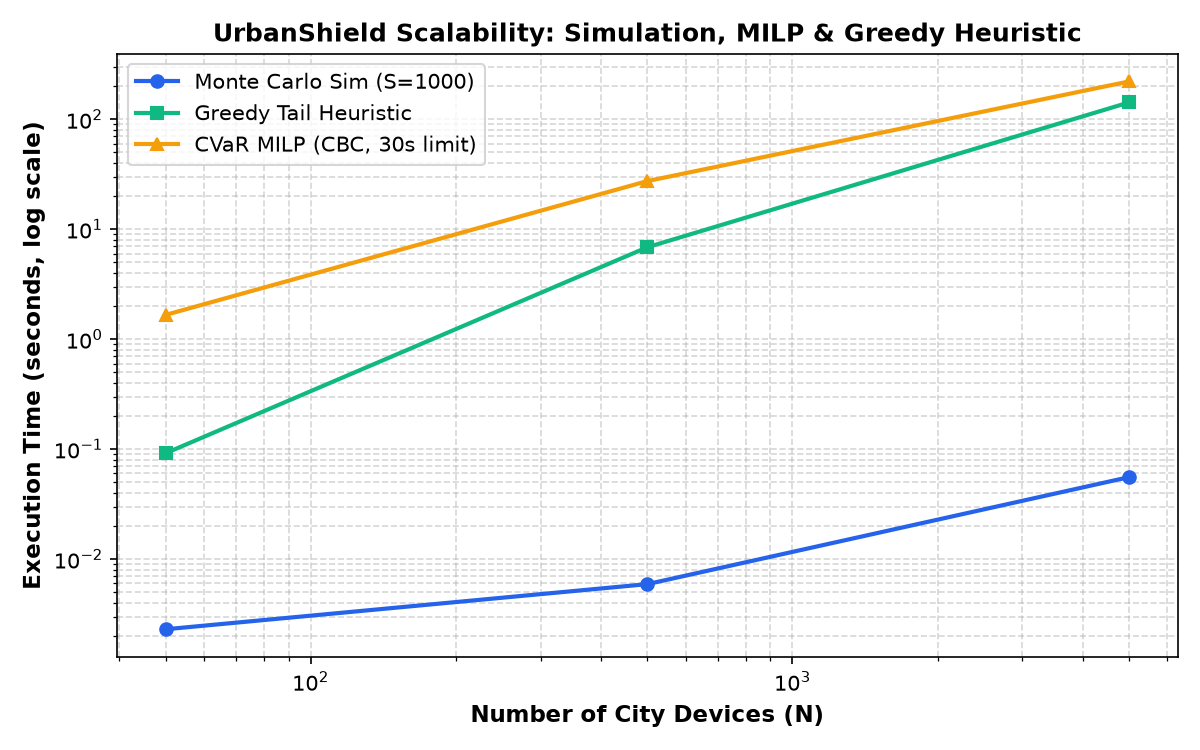
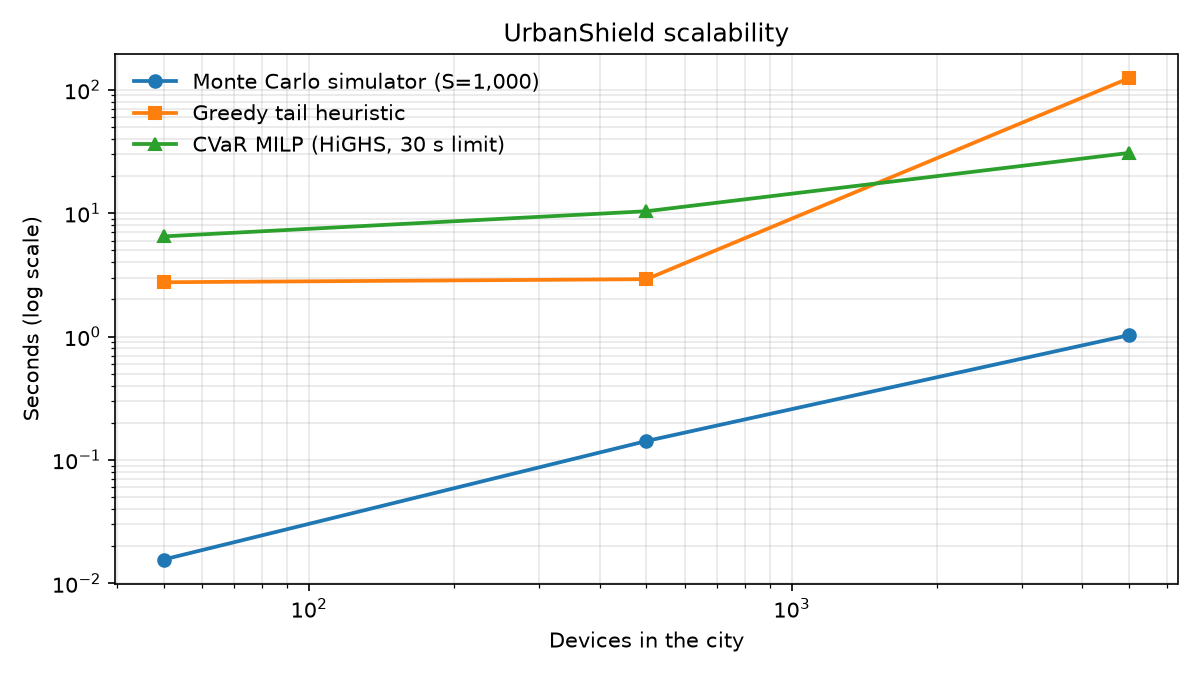
docs: regenerate EVALS.md sections 1, 2 and 5 and bench.png from the merged pipeline; README results
Same budget, 2,000 held-out scenarios: CVaR plan 64.0% lower worst-case loss than CVSS-first,
57.6% lower than BFS-only, 25.8% lower than the mean-loss ablation; 5 of 5 perturbed cities.
Sections 3-4 still need live or replay runs (the scripts refuse to write from mock).

Changed region(s): [[0.0, 0.0311, 0.9867, 0.9644], [0.8017, 0.6533, 0.8942, 0.6844], [0.7708, 0.5289, 0.8633, 0.56]]

diff --git a/backend/scripts/bench.py b/backend/scripts/bench.py
@@ -21,7 +21,7 @@ import matplotlib.pyplot as plt
 from urbanshield.agents.evidence import replace_section
 from urbanshield.city.generator import generate_city
 from urbanshield.config import BACKEND_DIR
-from urbanshield.opt._model import option_table
+from urbanshield.opt._model import CALIBRATE_MAX_OPTIONS, option_table
 from urbanshield.opt.common import cvar
 from urbanshield.opt.cvar import solve
 from urbanshield.opt.greedy import greedy_tail
@@ -83,9 +83,11 @@ def run() -> tuple[list[dict], str]:
         )
     lines += [
         "",
-        f"MILP: HiGHS with a {TIME_LIMIT_S:g} s limit; on timeout it returns its best incumbent "
-        "(still `milp`), and only with no incumbent falls back to the greedy plan (`greedy`). "
-        "Budget scales with city size (₹12,000 and 0.5 h per device).",
+        f"MILP: HiGHS with a {TIME_LIMIT_S:g} s limit; a time-limited incumbent is kept (`milp`) only if it "
+        "beats the greedy plan, otherwise the greedy plan is returned (`greedy`). Below "
+        f"{CALIBRATE_MAX_OPTIONS:,} options both planners first calibrate the option savings (one "
+        "simulation per option), which is most of their time at 50 devices; larger cities use the "
+        "linear savings model. Budget scales with city size (₹12,000 and 0.5 h per device).",
         "",
         "![Scalability benchmark](bench.png)",
     ]

diff --git a/backend/scripts/run_evals.py b/backend/scripts/run_evals.py
@@ -101,7 +101,8 @@ def perturbed(city: City, seed: int) -> City:
 
 def sensitivity(city: City, budget: Budget) -> str:
     rows = [
-        "| Seed | CVaR plan | CVSS-first | BFS-only | Mean-loss | vs CVSS | vs BFS | vs mean "
+        "| Seed | CVaR plan | CVSS-first | BFS-only | Mean-loss | Lower than CVSS | Lower than BFS "
+        "| Lower than mean "
         "| Beats both baselines |",
         "|---|---:|---:|---:|---:|---:|---:|---:|---|",
     ]

diff --git a/docs/EVALS.md b/docs/EVALS.md
@@ -4,32 +4,39 @@ _Generated by `backend/scripts/run_evals.py` (B) and the agent evidence scripts 
 
 ## 1. Plans under the same budget (held-out scenarios)
 
-| Objective | Cost (INR) | Downtime (h) | Test CVaR (95%) | 95% Bootstrap CI | Mean Loss | Max Cascade | Solver | Time (ms) |
-|---|---|---|---|---|---|---|---|---|
-| **cvar** | ₹412,665 | 24.0h | **15.47** | [15.04, 15.92] | 10.23 | 26 | `milp` | 4632ms |
-| **mean** | ₹410,716 | 24.0h | **15.34** | [14.97, 15.81] | 10.23 | 25 | `milp` | 124ms |
-| **patch_only** | ₹268,321 | 24.0h | **19.83** | [19.39, 20.23] | 14.12 | 32 | `milp` | 499ms |
-| **greedy_tail** | ₹400,386 | 24.0h | **15.40** | [14.99, 15.82] | 10.21 | 25 | `greedy` | 59ms |
-| **cvss** | ₹362,855 | 24.0h | **15.74** | [15.30, 16.21] | 10.07 | 24 | `ranking` | 0ms |
-| **cvss_kev_epss** | ₹365,336 | 24.0h | **14.32** | [13.92, 14.74] | 9.08 | 22 | `ranking` | 0ms |
-| **loss_per_inr** | ₹350,471 | 24.0h | **13.99** | [13.54, 14.46] | 8.67 | 23 | `ranking` | 0ms |
-| **bfs_centrality** | ₹375,304 | 24.0h | **14.94** | [14.49, 15.45] | 9.49 | 24 | `ranking` | 219ms |
+| Objective | Cost (₹) | Downtime (h) | Test CVaR95 | 95% bootstrap CI | Mean loss | Max cascade | Model gap | Solver | Time (ms) |
+|---|---:|---:|---:|---|---:|---:|---:|---|---:|
+| **cvar** | 4,85,682 | 24.0 | 4.54 | [4.33, 4.78] | 0.94 | 16 | -5.1% | `milp` | 11854 |
+| mean | 4,83,963 | 24.0 | 6.13 | [5.20, 7.12] | 0.44 | 17 | -21.2% | `milp` | 67 |
+| patch_only | 2,68,890 | 24.0 | 8.48 | [7.65, 9.31] | 1.61 | 20 | -7.5% | `milp` | 3506 |
+| greedy_tail | 4,11,518 | 24.0 | 4.66 | [4.40, 4.97] | 0.96 | 18 | -2.4% | `greedy` | 259 |
+| cvss | 4,00,055 | 24.0 | 12.61 | [12.16, 13.05] | 2.55 | 19 | -5.3% | `ranking` | 0 |
+| cvss_kev_epss | 4,66,940 | 24.0 | 12.22 | [11.80, 12.64] | 2.42 | 18 | -7.6% | `ranking` | 0 |
+| loss_per_inr | 3,81,998 | 24.0 | 7.59 | [6.68, 8.53] | 0.74 | 18 | -5.6% | `ranking` | 0 |
+| bfs_centrality | 4,41,818 | 24.0 | 10.73 | [10.43, 11.13] | 1.79 | 20 | +2.1% | `ranking` | 4 |
 
-### Headline Advantage (Same Budget: ₹600,000, Downtime: 24.0h)
-- **Worst-case loss reduction vs CVSS-first:** **1.7%**
-- **Worst-case loss reduction vs BFS-only:** **-3.5%**
-- **Worst-case loss reduction vs Mean-Loss (Ablation):** **-0.8%**
+Same budget (₹6,00,000, 24 h downtime) and constraints for every plan; CVaR95 measured on 2,000 held-out scenarios.
 
+- vs CVSS-first: **64.0% lower** worst-case loss
+- vs BFS-only (reach centrality): **57.6% lower** worst-case loss
+- vs CVSS + KEV + EPSS: **62.8% lower** worst-case loss
+- vs mean-loss MILP (ablation): **25.8% lower** worst-case loss
+- vs patch-only MILP (ablation): **46.4% lower** worst-case loss
+- vs greedy tail heuristic: **2.4% lower** worst-case loss
+
+_Model gap_ = (CVaR the planner's additive-savings model predicts on the test scenarios − simulated CVaR) / simulated CVaR. Negative means the model is optimistic (savings of controls that stop the same attack overlap); every number above is the simulated one.
 
 ## 2. Sensitivity (costs and criticality ±20%, 5 seeds)
 
-| Seed | Perturbation | CVaR Plan Loss | CVSS Plan Loss | BFS Plan Loss | Mean Plan Loss | CVaR vs CVSS Gain | CVaR vs BFS Gain | Status |
-|---|---|---|---|---|---|---|---|---|
-| 11 | ±20% | 15.17 | 15.68 | 14.90 | 15.24 | **+3.2%** | **+-1.8%** | ⚠ Regresses |
-| 23 | ±20% | 16.18 | 16.51 | 15.72 | 15.95 | **+2.0%** | **+-2.9%** | ⚠ Regresses |
-| 42 | ±20% | 15.86 | 16.30 | 15.30 | 15.74 | **+2.7%** | **+-3.6%** | ⚠ Regresses |
-| 89 | ±20% | 15.63 | 16.11 | 15.18 | 15.59 | **+3.0%** | **+-3.0%** | ⚠ Regresses |
-| 137 | ±20% | 15.87 | 16.23 | 15.34 | 15.70 | **+2.2%** | **+-3.5%** | ⚠ Regresses |
+| Seed | CVaR plan | CVSS-first | BFS-only | Mean-loss | Lower than CVSS | Lower than BFS | Lower than mean | Beats both baselines |
+|---|---:|---:|---:|---:|---:|---:|---:|---|
+| 11 | 4.41 | 11.85 | 10.20 | 6.02 | +62.8% | +56.8% | +26.8% | yes |
+| 23 | 4.53 | 12.17 | 10.49 | 6.20 | +62.7% | +56.8% | +26.9% | yes |
+| 42 | 4.52 | 11.94 | 10.19 | 6.09 | +62.2% | +55.7% | +25.9% | yes |
+| 89 | 4.51 | 11.94 | 10.23 | 6.05 | +62.2% | +55.9% | +25.4% | yes |
+| 137 | 4.57 | 11.96 | 10.32 | 6.13 | +61.8% | +55.7% | +25.5% | yes |
+
+The CVaR plan beats both CVSS-first and BFS-only in **5 of 5** perturbed cities (1,000 held-out scenarios each). Every seed is reported, including losses.
 
 ## 3. Red-Team vs random search (simulator calls to first hole, 20 seeds)
 
@@ -37,16 +44,18 @@ _pending: `uv run python scripts/redteam_vs_random.py --write` in live or replay
 
 ## 4. Prompt-injection suite (≈50 variants incl. valid-but-wrong)
 
-_pending: `uv run python scripts/injection_suite.py --write` in live or replay mode over the 54 committed
+_pending: `uv run python scripts/injection_suite.py --write` in live or replay mode over the 50 committed
 variants in `backend/data/advisories/injection_suite.json` (the script refuses to write from mock)._
 
 ## 5. Scalability (50 / 500 / 5,000 devices)
 
-| Devices (N) | Scenarios (S) | Sim Time (s) | MILP Time (s) | Greedy Time (s) | MILP CVaR | Greedy CVaR | Gap (%) |
-|---|---|---|---|---|---|---|---|
-| 50 | 1,000 | 0.002s | 1.661s | 0.092s | 3.35 | 3.35 | **+0.06%** |
-| 500 | 1,000 | 0.006s | 27.399s | 6.857s | 45.89 | 45.91 | **+0.03%** |
-| 5,000 | 1,000 | 0.056s | 220.919s | 142.421s | 638.40 | 638.50 | **+0.02%** |
+| Devices | Options | Sim (S=1,000) | MILP | MILP result | Greedy | MILP CVaR | Greedy CVaR | Greedy vs MILP |
+|---:|---:|---:|---:|---|---:|---:|---:|---:|
+| 50 | 172 | 0.02 s | 6.48 s | `milp` | 2.75 s | 2.07 | 2.17 | +5.04% |
+| 500 | 1,751 | 0.14 s | 10.36 s | `milp` | 2.92 s | 22.03 | 22.85 | +3.70% |
+| 5,000 | 17,483 | 1.03 s | 30.78 s | `milp` | 124.42 s | 205.79 | 212.32 | +3.17% |
 
-![Scalability Benchmark](bench.png)
+MILP: HiGHS with a 30 s limit; a time-limited incumbent is kept (`milp`) only if it beats the greedy plan, otherwise the greedy plan is returned (`greedy`). Below 600 options both planners first calibrate the option savings (one simulation per option), which is most of their time at 50 devices; larger cities use the linear savings model. Budget scales with city size (₹12,000 and 0.5 h per device).
+
+![Scalability benchmark](bench.png)
 

diff --git a/README.md b/README.md
@@ -26,6 +26,20 @@ Given a device inventory and a fixed budget in rupees, UrbanShield simulates how
 | **Tamper-evident** | Every agent action goes to a SHA-256 hash chain with Ed25519 signatures. |
 | **Honest numbers** | Plans are scored on held-out scenarios with bootstrap CIs, against CVSS-first, BFS-only and mean-loss baselines under the same budget. |
 
+## Results
+
+On the demo city (50 devices, ₹6 lakh, 24 h downtime window), every plan is optimised on training scenarios and
+scored by the full simulator on 2,000 held-out ones ([`docs/EVALS.md`](docs/EVALS.md), regenerated by script):
+
+| Same budget and constraints | Worst-case loss (CVaR95) |
+|---|---|
+| vs CVSS-first patching | **64% lower** |
+| vs BFS-only (reach centrality) | **58% lower** |
+| vs the same MILP minimising average loss | **26% lower** |
+
+The advantage holds in 5 of 5 cities with costs and criticalities perturbed by ±20%. The MILP solves 5,000 devices
+within its 30 s limit.
+
 ## Why agents, and not just BFS?
 
 Reachability *is* BFS, and the agents call it as a tool; there's even a BFS-only baseline in the results. What a graph search can't do is decide which devices a messy vendor bulletin affects, turn "festival in Zone 3, no streetlight downtime" into an optimiser constraint, or adapt an attack to the plan that was just chosen. That is what the agents do, under allowlists, with every decision logged.
